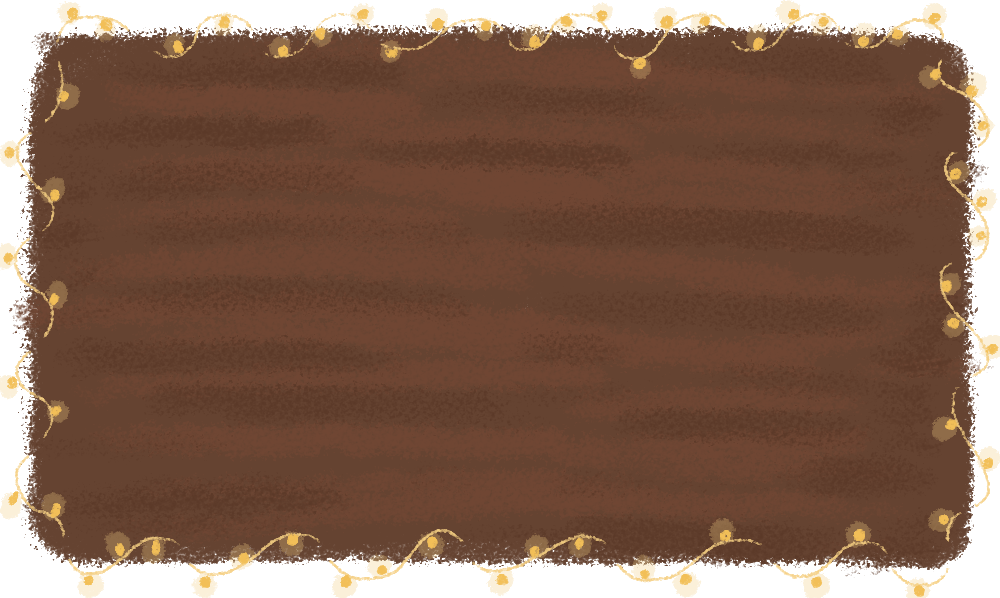
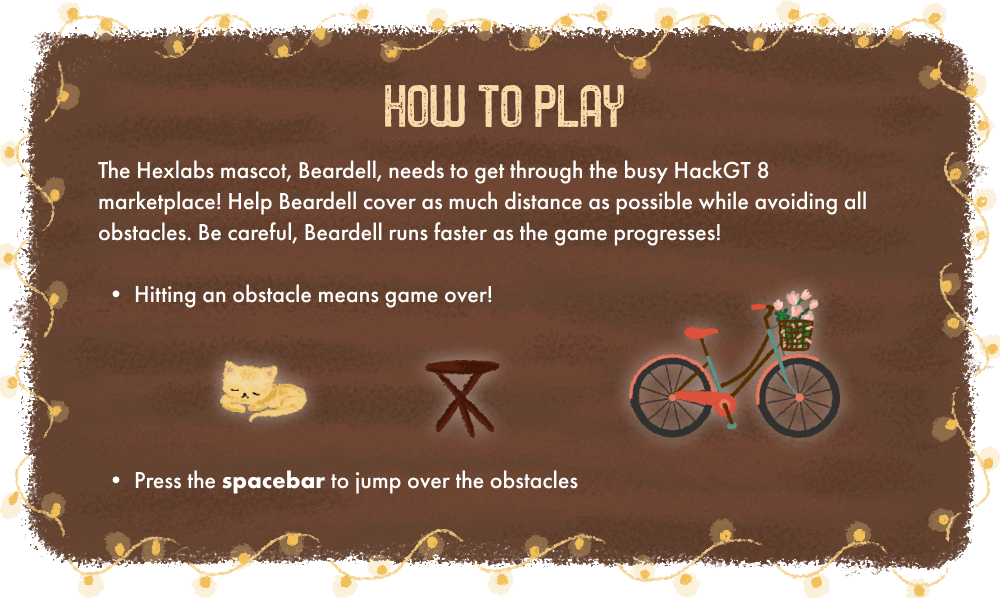
Add instructions page

diff --git a/src/components/Instructions/Instructions.module.css b/src/components/Instructions/Instructions.module.css
@@ -1,0 +1,140 @@
+.container {
+  min-height: 100vh;
+  padding: 0 0.5rem;
+  display: flex;
+  flex-direction: column;
+  justify-content: center;
+  align-items: center;
+  height: 100vh;
+  background: url('../../assets/superbackground.png') no-repeat;
+  background-size: cover;
+}
+
+.main {
+  padding: 5rem 0;
+  flex: 1;
+  display: flex;
+  flex-direction: column;
+  justify-content: center;
+  align-items: center;
+}
+
+.footer {
+  font-family: futura-pt;
+  width: 100%;
+  height: 100px;
+  display: flex;
+  justify-content: center;
+  align-items: center;
+  color: #fbdaaa;
+}
+
+.img {
+  width: 75%;
+  height: auto;
+}
+
+.title,
+.description {
+  text-align: center;
+}
+
+.button_group {
+  position: absolute;
+  right: 5vw;
+  bottom: 5vh;
+}
+
+.modal {
+  position: fixed;
+  top: 50%;
+  left: 50%;
+  transform: translate(-50%, -50%);
+  background: url('../../assets/instructions.png') no-repeat;
+  width: 100%;
+  height: 100%;
+  background-position: center;
+}
+
+.modal_text {
+  position: absolute;
+  top: 50%;
+  left: 50%;
+  transform: translate(-50%, -50%);
+  width: 1000px;
+  height: 598px;
+}
+
+.overlay {
+  position: fixed;
+  top: 0;
+  left: 0;
+  right: 0;
+  bottom: 0;
+  background-color: rgba(0, 0, 0, 0.3);
+}
+
+.description {
+  line-height: 1.5;
+  font-size: 1.5rem;
+}
+
+.code {
+  background: #fafafa;
+  border-radius: 5px;
+  padding: 0.75rem;
+  font-size: 1.1rem;
+  font-family: Menlo, Monaco, Lucida Console, Liberation Mono, DejaVu Sans Mono,
+    Bitstream Vera Sans Mono, Courier New, monospace;
+}
+
+.grid {
+  display: flex;
+  align-items: center;
+  justify-content: center;
+  flex-wrap: wrap;
+  max-width: 800px;
+  margin-top: 3rem;
+}
+
+.card {
+  margin: 1rem;
+  padding: 1.5rem;
+  text-align: left;
+  color: inherit;
+  text-decoration: none;
+  border: 1px solid #eaeaea;
+  border-radius: 10px;
+  transition: color 0.15s ease, border-color 0.15s ease;
+  width: 45%;
+}
+
+.card:hover,
+.card:focus,
+.card:active {
+  color: #0070f3;
+  border-color: #0070f3;
+}
+
+.card h2 {
+  margin: 0 0 1rem 0;
+  font-size: 1.5rem;
+}
+
+.card p {
+  margin: 0;
+  font-size: 1.25rem;
+  line-height: 1.5;
+}
+
+.logo {
+  height: 1em;
+  margin-left: 0.5rem;
+}
+
+@media (max-width: 600px) {
+  .grid {
+    width: 100%;
+    flex-direction: column;
+  }
+}

diff --git a/src/components/Instructions/Instructions.tsx b/src/components/Instructions/Instructions.tsx
@@ -1,29 +1,26 @@
 import React from 'react';
-import styles from './Home.module.css'
+import styles from './Instructions.module.css'
 import {
     Link
 } from 'react-router-dom'
+import instructions from '../../assets/instructions.png'
 
 import Button from '../Button/Button'
 
-const Home = () => {
+const Instructions = () => {
     return(
         <div className={styles.container}>
-            <h1 className={styles.title}>
-                Market Runner
-            </h1>
-
+            <img src={instructions} className={styles.img} />;
             <div className={styles.button_group}>
+                <Link to={'/'}>
+                    <Button>Home</Button>
+                </Link>
                 <Link to={'/game'}>
                     <Button>Start</Button>
                 </Link>
-                <Link to={'/instructions'}>
-                    <Button>Instructions</Button>
-                </Link>
-                <Button>Leaderboards</Button>
             </div>
         </div>
     )
 }
 
-export default Home;
+export default Instructions;

diff --git a/src/App.tsx b/src/App.tsx
@@ -6,8 +6,9 @@ import {
   Link
 } from "react-router-dom";
 
-import Home from './components/Home/Home'
+import Home from './components/Home/Home';
 import GameWrapper from './components/Game';
+import Instructions from './components/Instructions/Instructions';
 
 const App = () => {
     return (
@@ -18,6 +19,9 @@ const App = () => {
                 </Route>
                 <Route path='/game'>
                     <GameWrapper />
+                </Route>
+                <Route path='/instructions'>
+                    <Instructions />
                 </Route>
             </Switch>
         </Router>

diff --git a/src/components/player.tsx b/src/components/player.tsx
@@ -52,7 +52,7 @@ const Player: React.FC<Props> = (props: Props) => {
       (event.code && event.code === 'ArrowUp') ||
       (event.pointerId && event.pointerId === 1)
     ) {
-      setGravity(1.05)
+      setGravity(1.1)
     }
   };
 
@@ -73,7 +73,7 @@ const Player: React.FC<Props> = (props: Props) => {
       }
 
       updatedY = jumpStart + jumpHeight * -1
-      updatedX = props.x + delta * 3.5
+      updatedX = props.x + delta * 5
 
       props.update_position(updatedX, updatedY)
       setJumpingTime(jumpingTime + delta)

diff --git a/src/components/obstacles.tsx b/src/components/obstacles.tsx
@@ -45,7 +45,7 @@ const Obstacles: React.FC<Props> = (props: Props) => {
         "valid": true
       }
       setTotalObstaclesCreated(totalObstaclesCreated + 1)
-      setNextObstacleDistance(Math.floor(Math.random() * (350 - 200 + 1)) + 200)
+      setNextObstacleDistance(Math.floor(Math.random() * (400 - 275 + 1)) + 275)
     }
   });
 

diff --git a/src/components/Game.tsx b/src/components/Game.tsx
@@ -44,7 +44,7 @@ const Game: React.FC<Props> = (props: Props) => {
   const [gameSpeed, setGameSpeed] = useState(0);
   useTick(delta => {
     setTime(time_passed + delta*.005)
-    setGameSpeed(10*(1-Math.exp(-.02 * time_passed)) + 1)
+    setGameSpeed(10*(1-Math.exp(-.05 * time_passed)) + 1.75)
   });
 
   function end_game() {
